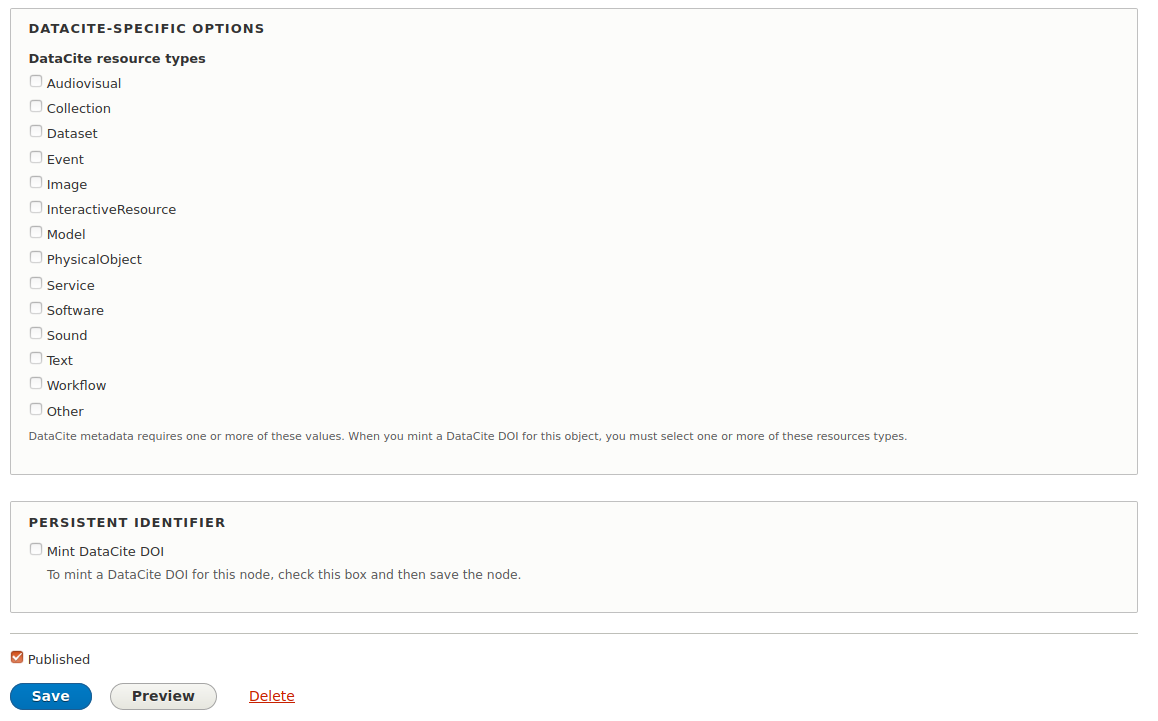
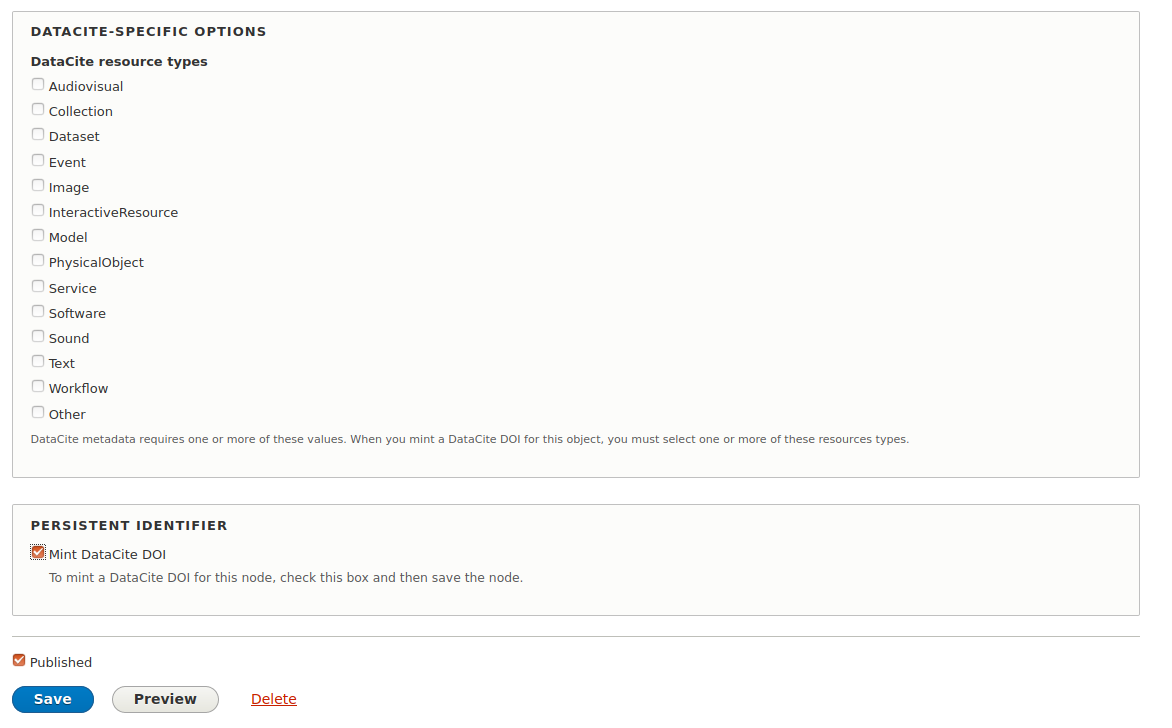
Changed DataCite resource types list so it only appears once user checks the 'Mint DataCite DOI' box.

diff --git a/README.md b/README.md
@@ -18,7 +18,7 @@ Still in very early development.
 
 ## Configuration
 
-1. Visit `/admin/config/persistent_identifiers/settings` for options.
+Visit `/admin/config/persistent_identifiers/settings` for options.
 
 ## Usage
 
@@ -30,7 +30,7 @@ DataCite requires the use of a controlled vocabulary of resource types. This mod
 
 ![DataCite resource types](docs/images/datacite_resource_types.png)
 
-Note that the items selected from this list are not persisted to the node, which means that every time a user mints a new DOI for the node, they must reselect the resource type. This is not optimal, but since DOIs are really only minted once, not storing this data is preferable to adding a field to the content type of store it in.
+This list will appear if the user checks the "Mint DataCite DOI" box. Note that the items selected from this list are not persisted to the node, which means that every time a user mints a new DOI for the node, they must reselect the resource type. This is not optimal, but since DOIs are generally only minted once, not storing this data is preferable to adding a field to the content type of store it in.
 
 ## Current maintainer
 
